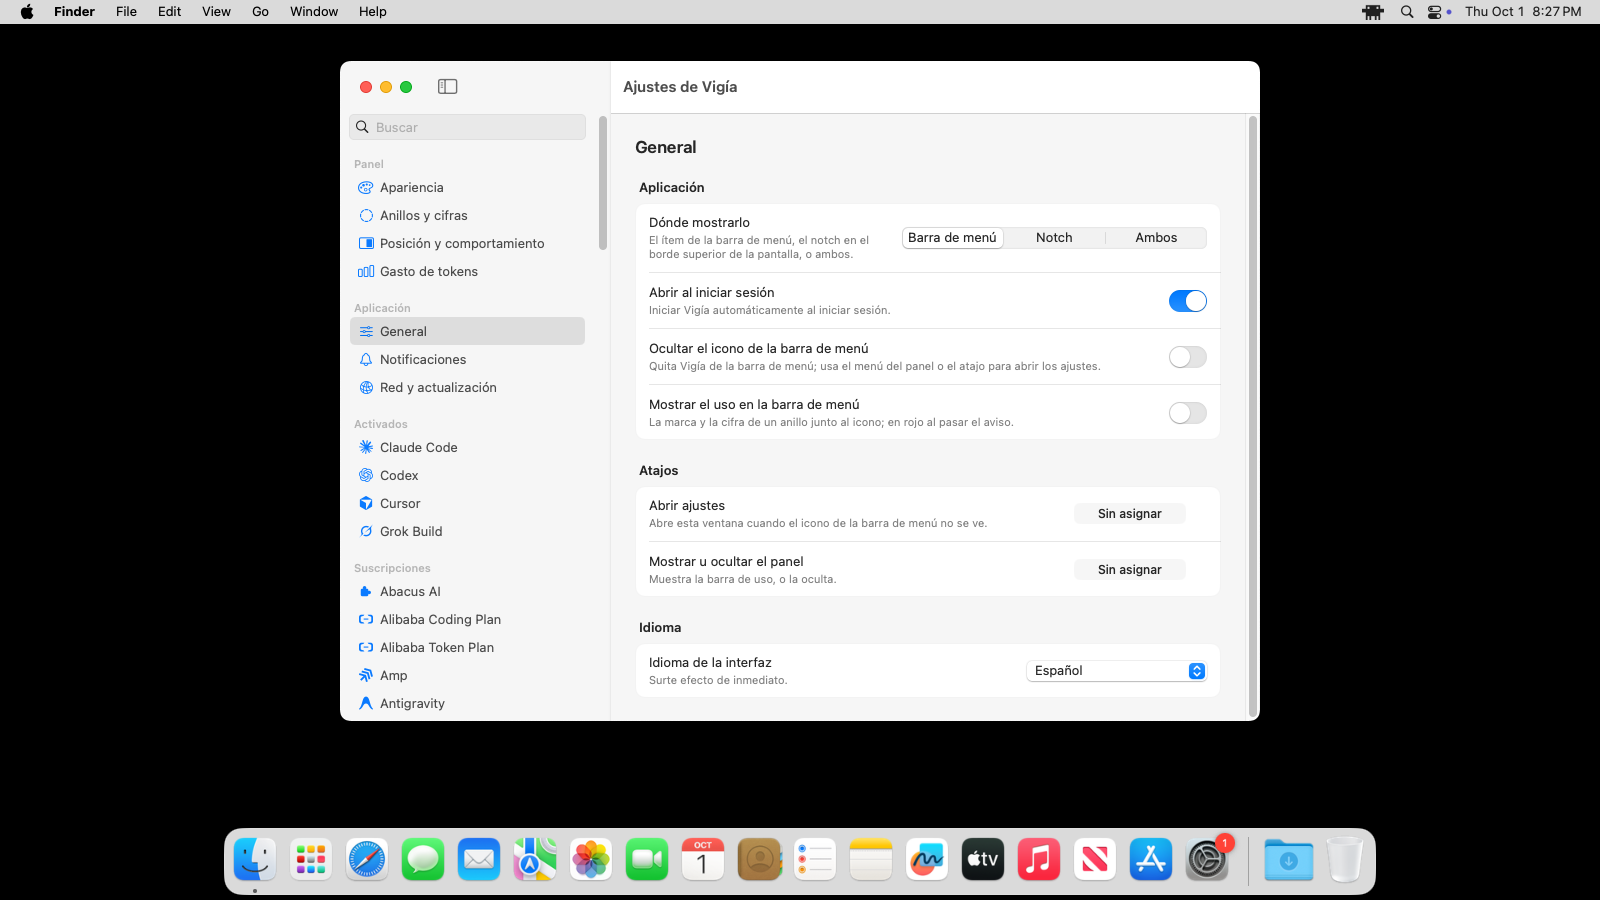
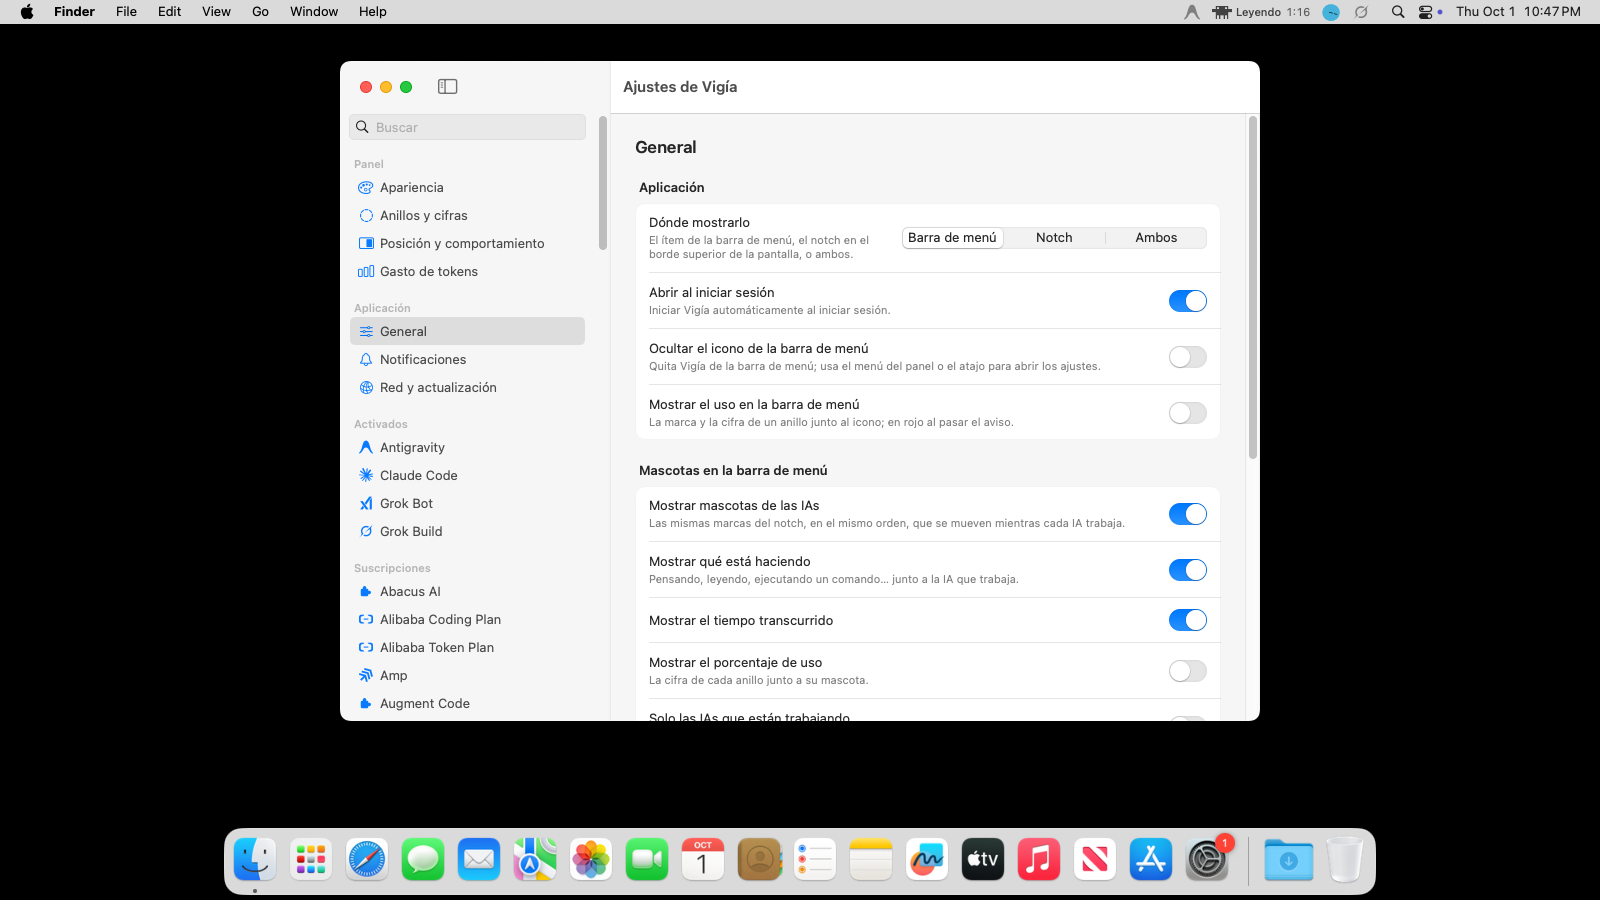
Update the README and screenshots for the current UI (#8)
Describe the menu bar mascots with activity text, the detail cards on click,
the menu bar settings and the Spanish/English interface. Regenerate all
screenshots in light and dark from the demo scenes (CI run on main) and show
the right one for the viewer's theme.

diff --git a/README.md b/README.md
@@ -4,25 +4,39 @@ Vigía es una app de barra de menú para macOS. Muestra, para cada agente de IA 
 
 Cubre Claude Code, Codex, Cursor, Gemini CLI y Grok Build (`~/.grok`), y el resto de proveedores que ya sabían leer los proyectos de los que sale esta app (más de setenta).
 
-Hay tres formas de verlo, y se cambian en Ajustes:
+## Qué hace
 
-- **Barra de menú.** El ítem y el menú siguen el aspecto de claude-status-bar. Claude Code puede mostrar a Clawd, el cangrejo en píxeles; Grok Build puede mostrar una bola con ojos. Si el agente trabaja, la mascota se mueve; si no, se queda quieta.
-- **Notch.** El panel del borde de la pantalla, con los anillos de uso, como en Pulse. Se abre al pasar el puntero o al hacer clic.
-- **Ambos.**
+- **Barra de menú.** Una mascota por cada IA de tu panel, en el mismo orden que el notch: Clawd (el cangrejo en píxeles) para Claude Code, la bolita de Grok Bot, y el logo de las demás, o su mascota animada si la activas. Se mueven solo mientras esa IA trabaja y, junto a ella, aparece qué está haciendo y cuánto lleva: *Pensando… 0:13*, *Leyendo 1:04*, *Ejecutando comando 0:07*. Las que no hacen nada se quedan quietas.
+- **Clic en la barra de menú.** Abre la tarjeta de detalle de cada IA, la misma que el notch muestra al dejar el puntero sobre un anillo: sus límites, cuándo se reinician y si van a alcanzar.
+- **Notch.** El panel del borde de la pantalla, con los anillos de uso. Se abre al pasar el puntero o al hacer clic.
+- **Ajustes de la barra de menú.** Activar o quitar las mascotas, el texto de lo que hace cada IA, el tiempo transcurrido y el porcentaje de uso; mostrar solo las IAs que están trabajando; y elegir cuáles aparecen.
+- **Español o inglés.** La interfaz está completa en los dos idiomas y nunca se mezclan. «Sistema» usa español si tu Mac está en español y, en cualquier otro caso, inglés.
 
-Cada agente tiene un interruptor en Ajustes para usar el logo oficial o la mascota animada. La apariencia clara y oscura sigue al sistema. La interfaz está en español, y lo que aún no está traducido se lee en inglés.
+La apariencia clara y oscura sigue al sistema. Cada agente tiene un interruptor en Ajustes para usar el logo oficial o la mascota animada.
 
 ## Capturas
 
 El notch plegado, el notch abierto, la barra de menú con su menú, y la ventana de ajustes:
 
-![Notch plegado](docs/notch-collapsed-light.png)
+<picture>
+  <source media="(prefers-color-scheme: dark)" srcset="docs/notch-collapsed-dark.png">
+  <img alt="Notch plegado" src="docs/notch-collapsed-light.png">
+</picture>
 
-![Notch abierto](docs/notch-expanded-light.png)
+<picture>
+  <source media="(prefers-color-scheme: dark)" srcset="docs/notch-expanded-dark.png">
+  <img alt="Notch abierto" src="docs/notch-expanded-light.png">
+</picture>
 
-![Barra de menú](docs/menu-light.png)
+<picture>
+  <source media="(prefers-color-scheme: dark)" srcset="docs/menu-dark.png">
+  <img alt="Barra de menú" src="docs/menu-light.png">
+</picture>
 
-![Ajustes](docs/settings-light.png)
+<picture>
+  <source media="(prefers-color-scheme: dark)" srcset="docs/settings-dark.png">
+  <img alt="Ajustes" src="docs/settings-light.png">
+</picture>
 
 ## Instalar
 
@@ -36,6 +50,17 @@ Las instalaciones salen de [GitHub Releases](https://github.com/camilocristancho
 El archivo dentro de la imagen se llama `Vigia.app`. Si al copiarlo el nombre quedó con tilde, el comando de arriba es el que corresponde; si quedó sin tilde, usa `"/Applications/Vigia.app"`.
 
 También puedes descargar `Vigia.zip` y descomprimirlo. Requiere macOS 14 o posterior.
+
+## Desarrollo
+
+Requiere Swift 6 y macOS 14 o posterior.
+
+```bash
+swift test                  # pruebas
+scripts/make-app.sh         # arma build.noindex/Vigia.app, Vigia.dmg y Vigia.zip
+```
+
+Las capturas de `docs/` salen de `scripts/capture-screenshots.sh`, que lanza la app real en modo demo (datos de ejemplo, sin red ni sesiones reales) y la CI las publica como artefacto. La rama `main` está protegida: los cambios entran por Pull Request.
 
 ## Créditos
 
